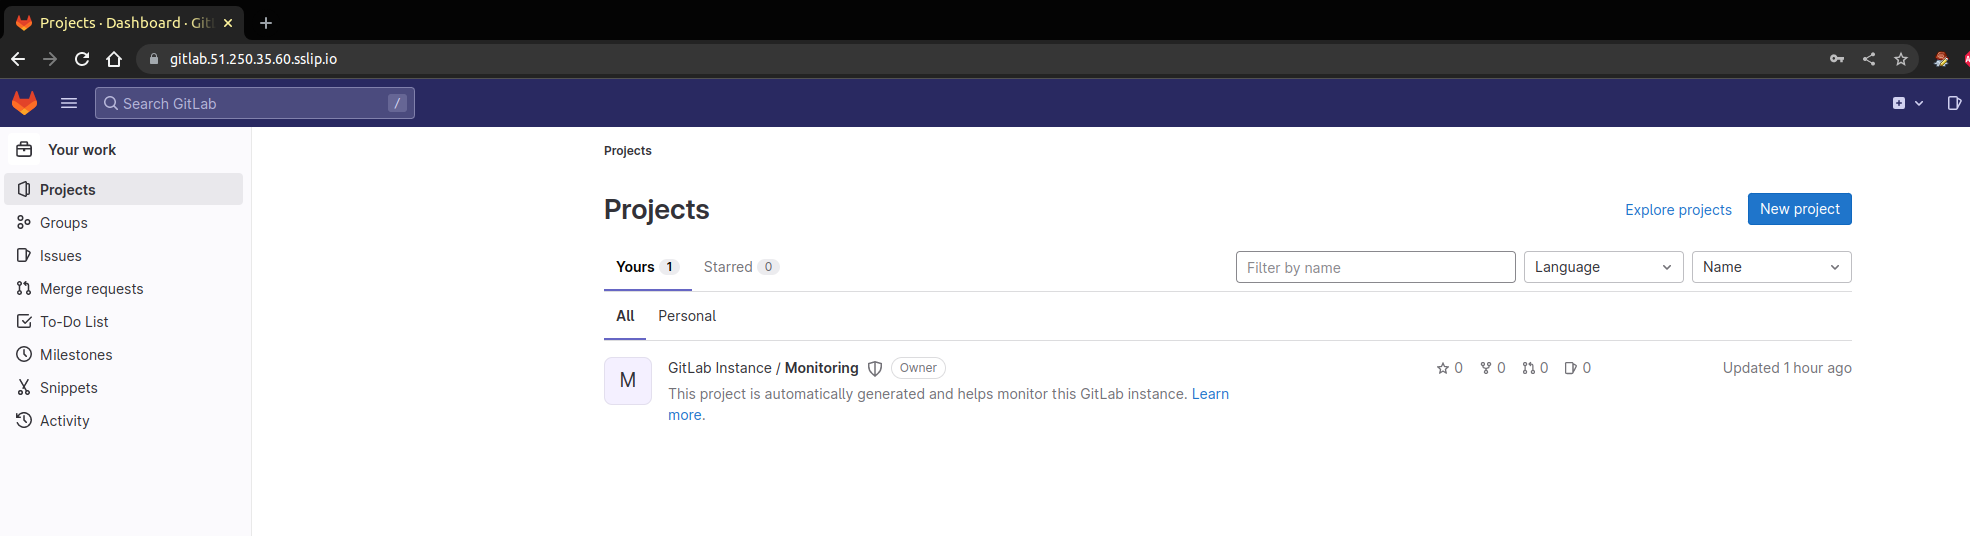
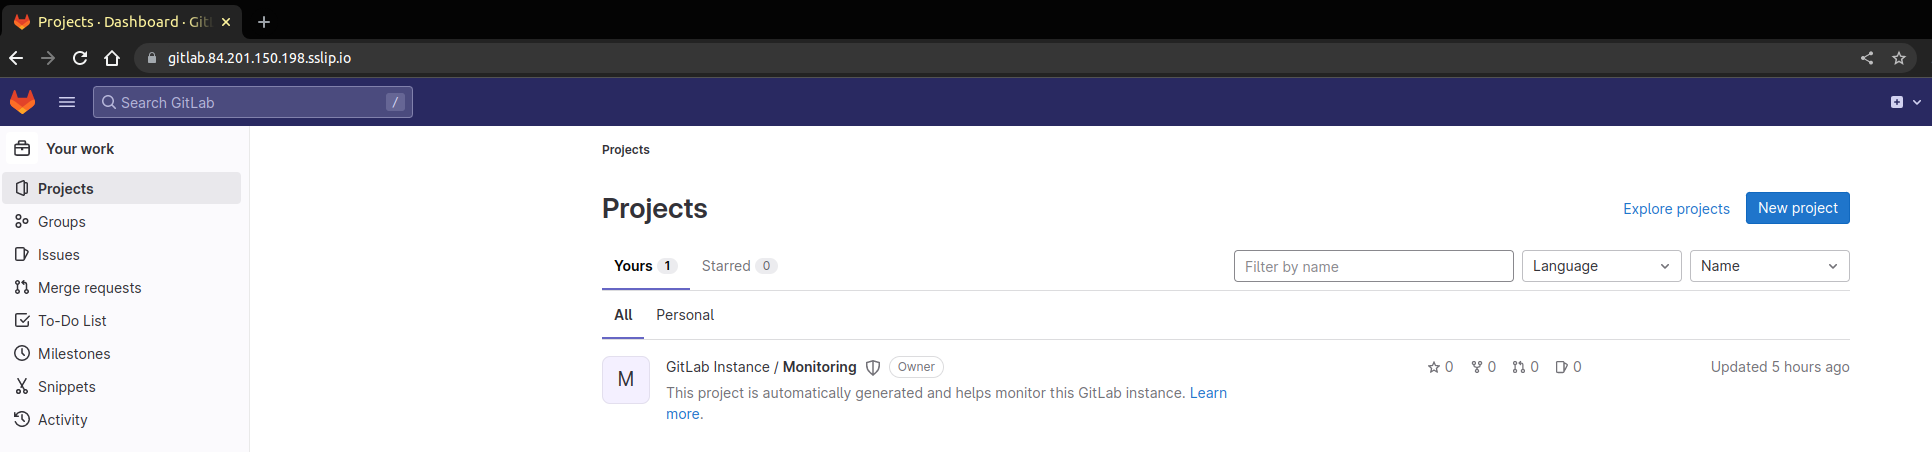
Gitlab done

diff --git a/README.md b/README.md
@@ -154,14 +154,29 @@ cd gitlab-ci/terraform
 terraform init
 terraform apply --auto-approve
 yc compute instance list | grep gitlab
+yc vpc address list 
 ~~~
 
 ~~~bash
-ssh ubuntu@51.250.35.60 -i ~/.ssh/appuser
+yc vpc address update --reserved=true b0cbp5ihggpv7p7d4tf3
+ssh ubuntu@84.201.150.198 -i ~/.ssh/appuser
 ~~~
 
 - Ставим ssl по https://docs.gitlab.com/omnibus/settings/ssl/
 
-> https://gitlab.51.250.35.60.sslip.io/users/sign_in
+> https://gitlab.84.201.150.198.sslip.io/
 
-![img.png](img.png) 
+![img.png](img.png)
+ 
+
+### Полезное
+
+Stop
+~~~bash
+yc compute instance stop gitlab-ci-vm-0
+~~~
+
+Start
+~~~bash
+yc compute instance start gitlab-ci-vm-0
+~~~
